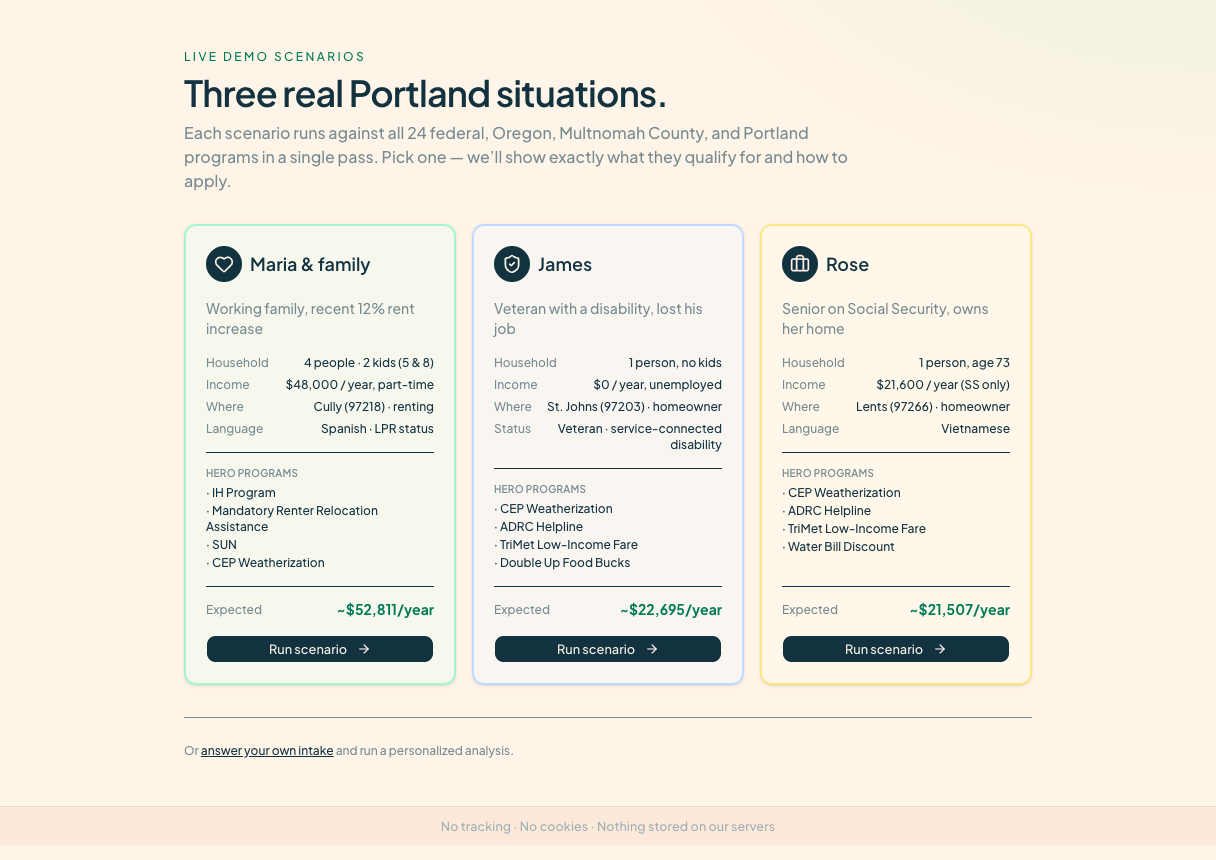
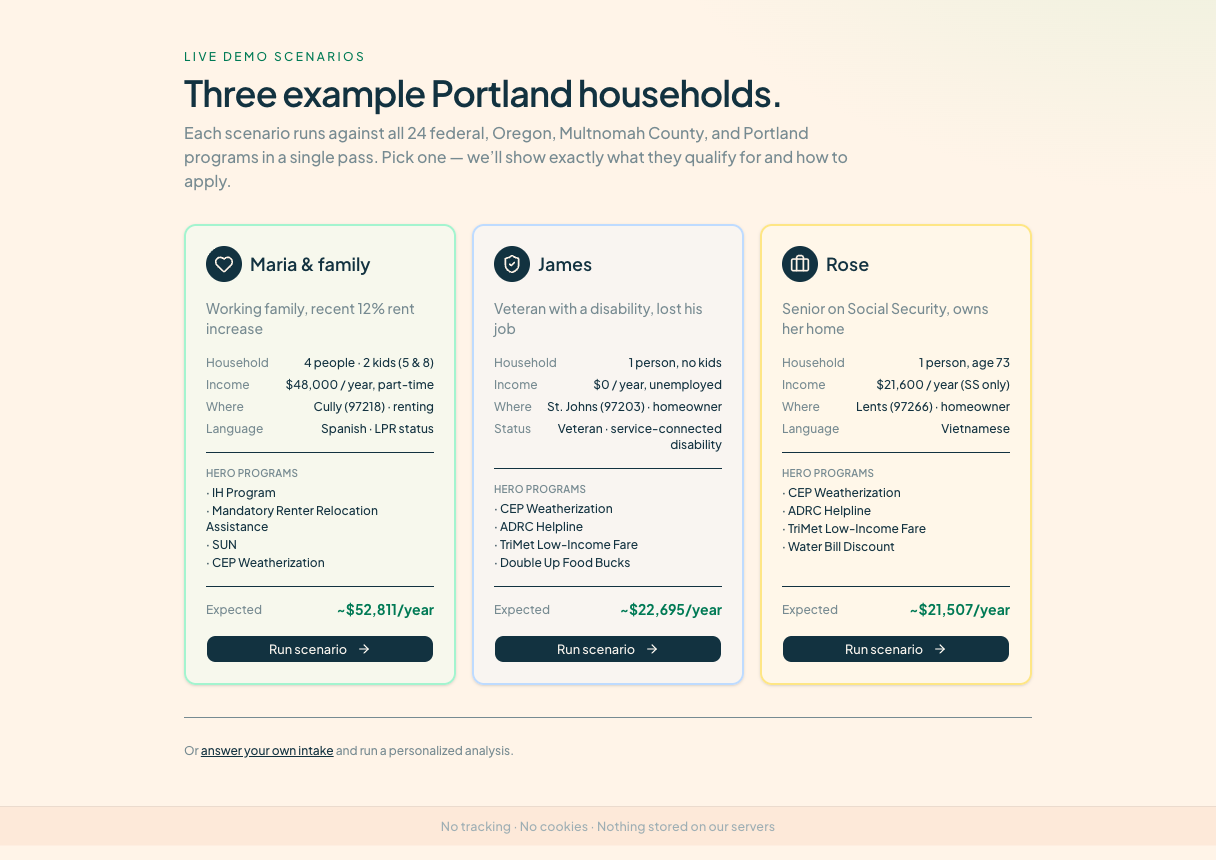
fix: correct inaccurate claims in landing, intake, about, and demo copy
- Landing headline: replace the unsourced "$1.2 billion" claim with the
  hidden-gem count read from programs.json ("Most screeners skip 11
  benefits Portland families can get")
- "We check all twenty" now reads the real program count (24)
- Maria is a family of 4, not a single parent
- "PCEF Home Energy" is CEP Home Weatherization (PCEF is the funder)
- Privacy copy: answers go to Anthropic for the analysis; nothing is
  saved on our server (they did not "stay in this browser")
- Intake review: all 24 programs, and analysis takes minutes, not
  "about 5 seconds"
- About: replace the unsourced $10k-$25k family gap with the example
  households' actual $8,600-$19,800
- Demo hub: the households are examples, not "real" situations

Landing and demo-hub screenshots retaken from the new build.

Changed region(s): [[0.2188, 0.0907, 0.6562, 0.1512]]

diff --git a/app/page.tsx b/app/page.tsx
@@ -18,6 +18,7 @@ import programs from "@/data/programs.json";
 const HIDDEN_GEM_COUNT = (programs as { hidden_gem: boolean }[]).filter(
   (p) => p.hidden_gem,
 ).length;
+const PROGRAM_COUNT = programs.length;
 
 const eligibleCount = (f: { matches: { eligible: boolean }[] }) =>
   f.matches.filter((m) => m.eligible).length;
@@ -36,12 +37,12 @@ const HIDDEN_GEMS = [
       "When your rent goes up more than 10% in a year, your landlord owes you a lump sum.",
   },
   {
-    id: "pcef",
-    name: "PCEF Home Energy",
+    id: "cep",
+    name: "CEP Home Weatherization",
     value: "up to $15,000",
     jurisdiction: "portland" as const,
     blurb:
-      "Free heat pumps, weatherization, and AC — funded by Portland's tax on large retailers.",
+      "Free weatherization, heat pumps, and home repairs, funded by Portland's clean energy tax on large retailers.",
   },
   {
     id: "sun",
@@ -83,7 +84,7 @@ const SCENARIO_SUMMARIES = [
     short: "María",
     zip: "97218 · Cully",
     blurb:
-      "Single parent · 2 kids · part-time at Fred Meyer · rent went up 12%.",
+      "Family of 4 · 2 kids · part-time at Fred Meyer · rent went up 12%.",
     total: MARIA_TOTAL,
     eligibleCount: MARIA_ELIGIBLE,
     accent: "rose" as const,
@@ -112,7 +113,7 @@ const SCENARIO_SUMMARIES = [
 
 const MARQUEE_ITEMS = [
   ["Portland Renter Relocation", "$4,500"],
-  ["PCEF Home Energy", "up to $15,000"],
+  ["CEP Home Weatherization", "up to $15,000"],
   ["SUN Service System", "$3,000"],
   ["Multnomah Eviction Prevention", "$2,000"],
   ["Water Bureau Discount", "80% off"],
@@ -159,17 +160,16 @@ export default function HomePage() {
                     fontWeight: 500,
                   }}
                 >
-                  Portland has set aside{" "}
+                  Most screeners skip{" "}
                   <span style={{ color: "var(--rose)" }}>
                     <StatReveal
-                      target={1.2}
-                      decimals={1}
-                      prefix="$"
+                      target={HIDDEN_GEM_COUNT}
+                      decimals={0}
                       duration={2.4}
                     />{" "}
-                    billion
+                    benefits
                   </span>{" "}
-                  for families who never claim it.
+                  Portland families can get.
                 </h1>
 
                 <p
@@ -182,7 +182,7 @@ export default function HomePage() {
                   }}
                 >
                   Most national tools only check federal benefits. We check{" "}
-                  <strong style={{ color: "var(--ink)" }}>all twenty</strong> —
+                  <strong style={{ color: "var(--ink)" }}>all {PROGRAM_COUNT}</strong> —
                   federal, Oregon, Multnomah County, and the City of Portland —
                   and put together a kind, useful packet for you in about three
                   minutes.
@@ -259,7 +259,7 @@ export default function HomePage() {
                       margin: "0 0 18px",
                     }}
                   >
-                    Single parent · 2 kids · part-time at Fred Meyer · rent
+                    Family of 4 · 2 kids · part-time at Fred Meyer · rent
                     went up 12%.
                   </p>
 
@@ -397,7 +397,7 @@ export default function HomePage() {
               n="1"
               tone="rose"
               title="Tell us about your household"
-              body="Twelve gentle questions: size, income, ZIP, what's going on. Your answers stay in this browser."
+              body="Five short steps: household, income, ZIP, and what's going on. Nothing is saved on our server."
             />
             <Step
               n="2"

diff --git a/app/about/page.tsx b/app/about/page.tsx
@@ -15,7 +15,7 @@ export const metadata: Metadata = {
 
 const HIDDEN_GEM_PROGRAMS = [
   { name: "Portland Renter Relocation", value: "$2,900 – $4,500", jurisdiction: "portland" as const },
-  { name: "PCEF Home Energy", value: "up to $15,000", jurisdiction: "portland" as const },
+  { name: "CEP Home Weatherization", value: "up to $15,000", jurisdiction: "portland" as const },
   { name: "SUN Service System", value: "$1,000 – $6,000", jurisdiction: "multnomah" as const },
   { name: "Multnomah Eviction Prevention", value: "up to $5,000", jurisdiction: "multnomah" as const },
   { name: "Water Bureau Discount", value: "80% off bill", jurisdiction: "portland" as const },
@@ -87,10 +87,10 @@ export default function AboutPage() {
             <div>
               <p style={{ color: "var(--ink-2)", lineHeight: 1.7, margin: "0 0 20px", fontSize: "1rem" }}>
                 Most national screening tools check federal programs — SNAP, Medicaid, WIC — and stop
-                there. That leaves a significant gap. Portland and Multnomah County have funded a layer
-                of locally-targeted programs that can add{" "}
-                <strong style={{ color: "var(--ink)" }}>$10,000 – $25,000 a year</strong> for an
-                average family, and most residents never hear about them.
+                there. Portland and Multnomah County fund a layer of local programs on top of
+                those. For our three example households, that layer adds{" "}
+                <strong style={{ color: "var(--ink)" }}>about $8,600 – $19,800 a year</strong>,
+                and most residents never hear about these programs.
               </p>
               <p style={{ color: "var(--ink-2)", lineHeight: 1.7, margin: "0 0 20px", fontSize: "1rem" }}>
                 We built this to close that gap. We check all{" "}

diff --git a/components/intake/ConversationalForm.tsx b/components/intake/ConversationalForm.tsx
@@ -226,7 +226,7 @@ export function ConversationalForm() {
           textAlign: 'center',
         }}
       >
-        Nothing is stored. Your answers stay in this browser session.
+        Your answers stay in this browser session and go to Anthropic only for your analysis. Nothing is saved on our server.
       </p>
     </main>
   );
@@ -897,7 +897,7 @@ function Review({ values }: { values: FormValues }) {
     <>
       <StepHeading
         title="Ready to find what you're owed."
-        sub="We'll check all 20 federal, state, county, and Portland programs in about 5 seconds."
+        sub="We'll check all 24 federal, state, county, and Portland programs. The analysis can take a few minutes."
       />
       <div className="rc-card-flat" style={{ padding: '8px 0' }}>
         <dl style={{ margin: 0 }}>

diff --git a/app/demo/page.tsx b/app/demo/page.tsx
@@ -109,7 +109,7 @@ export default function DemoHubPage() {
           Live demo scenarios
         </p>
         <h1 className="text-3xl font-semibold tracking-tight sm:text-4xl">
-          Three real Portland situations.
+          Three example Portland households.
         </h1>
         <p className="max-w-2xl text-muted-foreground">
           Each scenario runs against all 24 federal, Oregon, Multnomah County, and Portland
